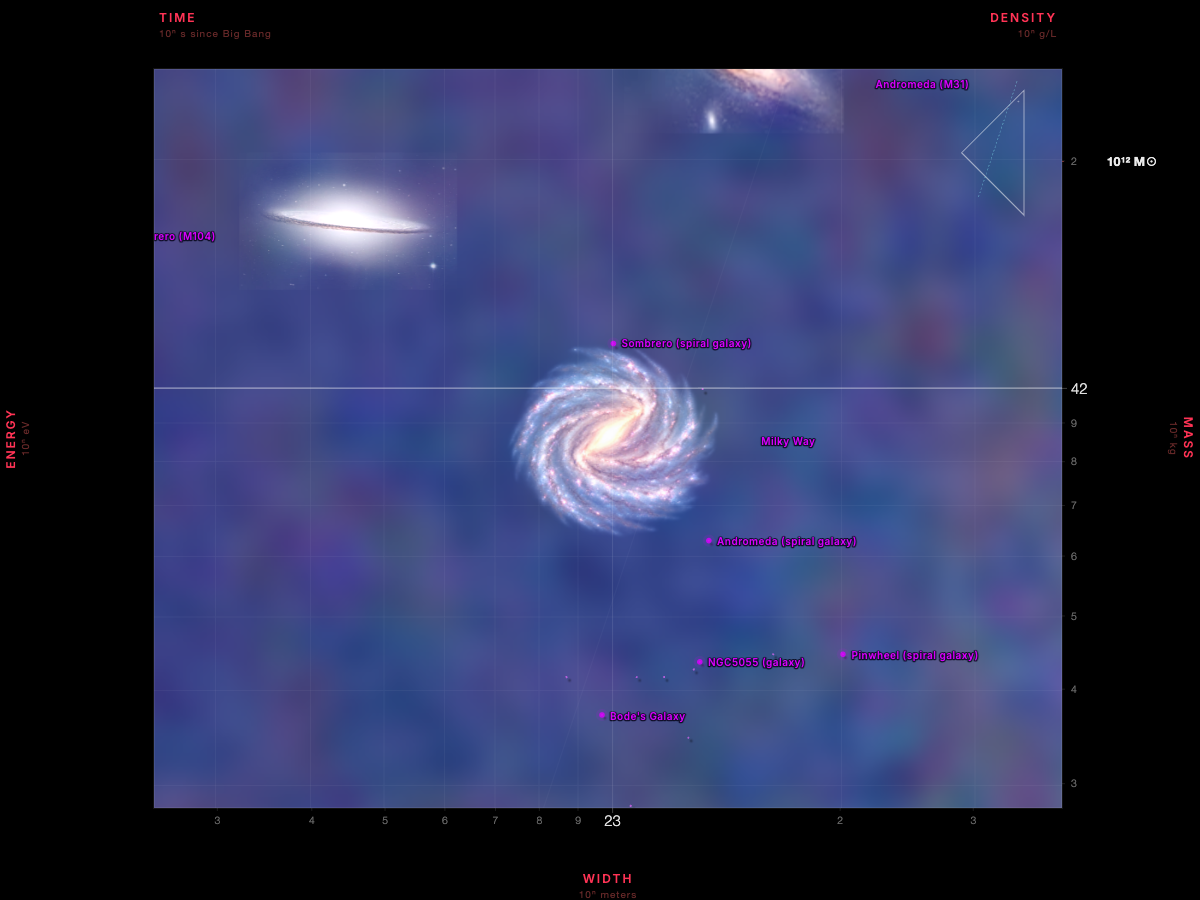
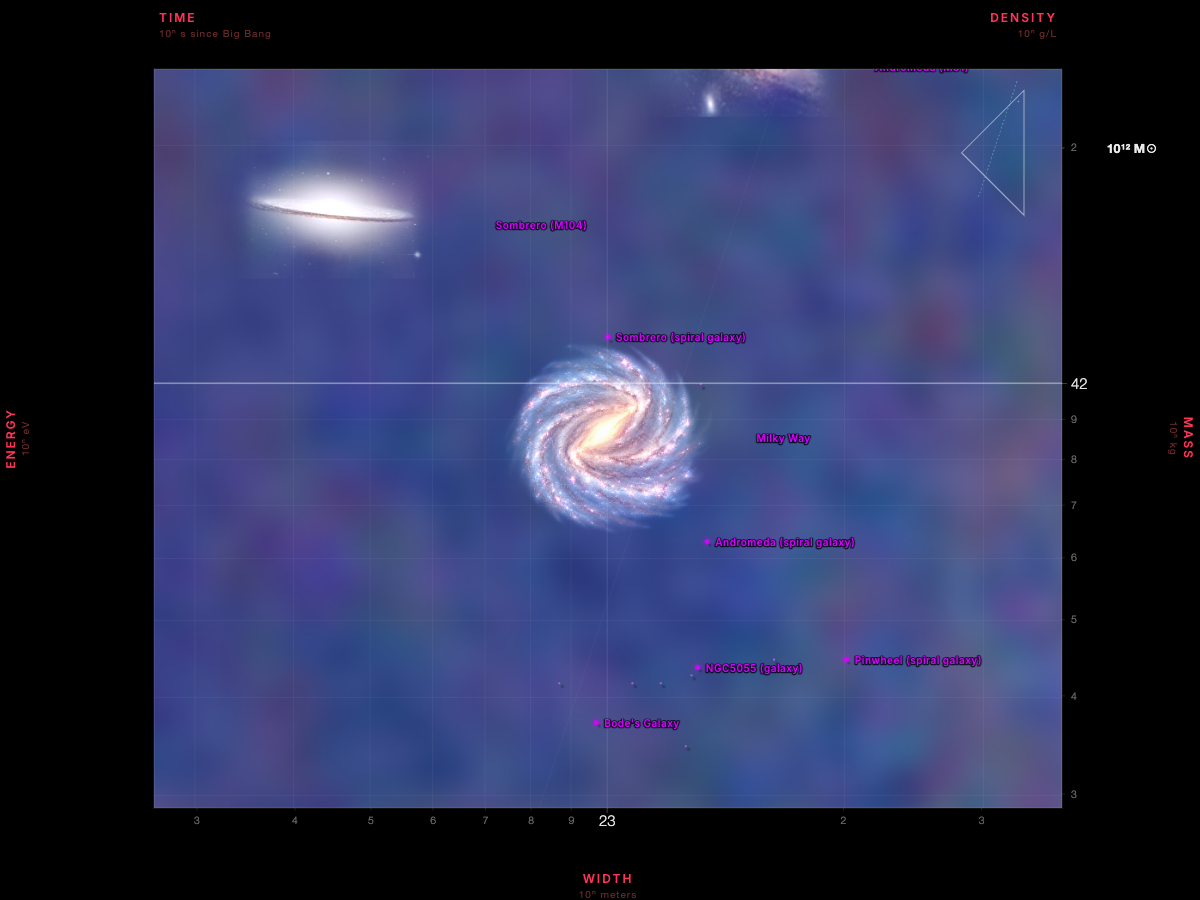
Soften diffuse space artwork edges and retain faint core backings

diff --git a/tools/space-blend-study.html b/tools/space-blend-study.html
@@ -1,16 +1,18 @@
 <!doctype html>
 <html lang="en"><meta charset="utf-8"><meta name="viewport" content="width=device-width,initial-scale=1"><title>Galaxies and comets · blending study</title>
 <style>
-*{box-sizing:border-box}body{margin:0;padding:24px;max-width:1200px;margin:auto;background:#171322;color:#eee8fa;font:16px system-ui}h1{font-size:25px;margin:0}p{line-height:1.5;color:#c0b4d0}a{color:#c7ed94}.controls{display:flex;gap:24px;align-items:center;flex-wrap:wrap;margin:24px 0}input{accent-color:#c7ed94}main{display:grid;grid-template-columns:1fr 1fr;gap:18px}article{border:1px solid #493a5b;border-radius:12px;overflow:hidden}.scene{height:300px;position:relative;isolation:isolate;background:linear-gradient(90deg,#ffffff0b 1px,transparent 1px),linear-gradient(#ffffff0b 1px,transparent 1px),#433193;background-size:40px 40px}img,.backing{position:absolute;left:50%;top:50%;width:240px;height:240px;transform:translate(-50%,-50%);object-fit:contain}.backing{width:250px;height:250px;border-radius:50%;background:radial-gradient(closest-side, rgba(0,0,0,.8) 0%,rgba(0,0,0,.5) 50%,transparent 100%)}img{mix-blend-mode:screen}footer{padding:15px;background:#211b2e}h2{font-size:16px;margin:0}small{color:#c0b4d0}@media(max-width:650px){body{padding:12px}.scene{height:220px}img,.backing{width:180px;height:180px}}
+*{box-sizing:border-box}body{margin:0;padding:24px;max-width:1200px;margin:auto;background:#171322;color:#eee8fa;font:16px system-ui}h1{font-size:25px;margin:0}p{line-height:1.5;color:#c0b4d0}a{color:#c7ed94}.controls{display:flex;gap:24px;align-items:center;flex-wrap:wrap;margin:24px 0}input{accent-color:#c7ed94}main{display:grid;grid-template-columns:1fr 1fr;gap:18px}article{border:1px solid #493a5b;border-radius:12px;overflow:hidden}.scene{--art-size:240px;height:300px;position:relative;isolation:isolate;background:linear-gradient(90deg,#ffffff0b 1px,transparent 1px),linear-gradient(#ffffff0b 1px,transparent 1px),#433193;background-size:40px 40px}img,.backing{position:absolute;left:50%;top:50%;width:var(--art-size);height:var(--art-size);transform:translate(-50%,-50%);object-fit:contain}.backing{border-radius:50%;background:radial-gradient(closest-side,rgba(0,0,0,.8),rgba(0,0,0,.5) 50%,transparent)}.backing.soft{background:radial-gradient(closest-side,rgba(0,0,0,.35),rgba(0,0,0,.15) 50%,transparent)}img{mix-blend-mode:screen}.trial{mask-composite:intersect;-webkit-mask-composite:source-in}footer{padding:15px;background:#211b2e}h2{font-size:16px;margin:0}small{color:#c0b4d0}@media(max-width:650px){body{padding:12px}.scene{--art-size:240px;height:220px}.scene{--art-size:180px}}
 </style>
-<h1>Light without the black backing</h1>
-<p>Left: the current black backing. Right: screen blending directly onto the purple wall, with a small brightness boost. The background grid remains visible through the faint parts.</p>
+<h1>A darker core, softer edges</h1>
+<p>Left: the original broad backing. Right: a small, faint backing under the core, brighter detail, and feathered image edges.</p>
 <div class="controls"><label>Brightness <input id="brightness" type="range" min="1" max="1.6" step=".05" value="1.25"> <output>1.25×</output></label><a href="/?softspace#21.5,39.7,31.59">Try it in the chart ↗</a><a href="/#21.5,39.7,31.59">Current chart ↗</a></div>
 <main></main>
 <script type="module">
-import {SPACE_ART_BRIGHTNESS} from '/src/space-art.js';
+import {SPACE_ART_BRIGHTNESS,spaceCoreGeometry,spaceEdgeCss} from '/src/space-art.js';
 for(const [slug,name] of [['milky-way','Milky Way'],['andromeda-m31','Andromeda'],['halleys-comet','Halley’s Comet'],['stellar-nursery','Stellar nursery']])for(const trial of [false,true]){
- const el=document.createElement('article');el.innerHTML=`<div class="scene">${trial?'':'<div class="backing"></div>'}<img ${trial?'class="trial"':''} src="/content/icons/${slug}.webp" alt="${name}"></div><footer><h2>${name}</h2><small>${trial?'No backing · brighter':'Current backing'}</small></footer>`;document.querySelector('main').append(el);
+ const core=trial?spaceCoreGeometry(slug,0,0,240):{cx:0,cy:0,r:240*.52};
+ const el=document.createElement('article');el.innerHTML=`<div class="scene"><div class="backing ${trial?'soft':''}" style="width:calc(var(--art-size) * ${core.r*2/240});height:calc(var(--art-size) * ${core.r*2/240});left:calc(50% + var(--art-size) * ${core.cx/240})"></div><img ${trial?'class="trial"':''} src="/content/icons/${slug}.webp" alt="${name}"></div><footer><h2>${name}</h2><small>${trial?'Faint core · feathered edges':'Original backing'}</small></footer>`;document.querySelector('main').append(el);
+ if(trial)el.querySelector('img').style.maskImage=spaceEdgeCss(slug);
 }
 const input=document.querySelector('input');input.value=SPACE_ART_BRIGHTNESS;
 function update(){document.querySelector('output').value=Number(input.value).toFixed(2)+'×';document.querySelectorAll('.trial').forEach(im=>im.style.filter=`brightness(${input.value})`)}

diff --git a/src/main.js b/src/main.js
@@ -1,5 +1,5 @@
 import * as d3 from "d3";
-import {isDiffuseSpaceArt,SPACE_ART_BRIGHTNESS} from "./space-art.js";
+import {isDiffuseSpaceArt,SPACE_ART_BRIGHTNESS,SPACE_ART_DEFS,spaceCoreGeometry,spaceEdgeMask} from "./space-art.js";
 import {animateIconGrowth, ICON_HOVER_MS, iconHoverEase} from "./icon-hover.js";
 import {STAR_BODY_FRAMES, BROWN_DWARFS, starBodyGeometry, starWallLight, stellarLightProfile} from "./star-light.js";
 import { PARALLAX, planePoint, planeTransform, iconPoint } from "./parallax.js";
@@ -462,6 +462,7 @@ function announce(text) {
 // decorative motion. The in-app "Show animations" checkbox still overrides.
 const _reduceMotion = !!window.matchMedia?.("(prefers-reduced-motion: reduce)").matches;
 const defs = svg.append("defs");
+defs.node().insertAdjacentHTML("beforeend",SPACE_ART_DEFS);
 
 // Clip
 defs.append("clipPath").attr("id", "clip")
@@ -2896,7 +2897,7 @@ function drawObjects() {
       const g = enter.append("g").attr("class", "icon-g");
       g.each(function(o) {
         const gg = d3.select(this);
-        if (iconUsesScreenBlend(o) && !softSpaceIcon(o)) {
+        if (iconUsesScreenBlend(o)) {
           gg.append("circle").attr("class", "icon-bg").attr("fill", "url(#icon-bg-grad)");
         }
         // Fallback dot: icons fetch on demand, so on a cold cache the
@@ -2911,6 +2912,7 @@ function drawObjects() {
           .attr("data-slug", o.slug)
           .style("mix-blend-mode", iconUsesScreenBlend(o) ? "screen" : null)
           .style("filter",softSpaceIcon(o)?`brightness(${SPACE_ART_BRIGHTNESS})`:null)
+          .attr("mask",softSpaceIcon(o)?spaceEdgeMask(o.slug):null)
           .node();
         imgEl.addEventListener("load", () => {
           _loadedIconUrls.add(ICON_BY_SLUG[o.slug]);
@@ -2926,11 +2928,11 @@ function drawObjects() {
       const objIcoSize = icoSize * iconSizeMult(o);
       const growth = this.__iconGrowth ?? 1;
       gg.attr("transform", parallaxTranslation(o, objectPicturePoint(o, growth)));
-      const bodyDisc=starBodyGeometry(o.slug,o.sx,o.sy,objIcoSize,growth);
+      const bodyDisc=iconBackingGeometry(o,objIcoSize,growth);
       gg.select(".icon-bg")
         .attr("cx",bodyDisc?.cx??o.sx).attr("cy",bodyDisc?.cy??o.sy)
         .attr("r",bodyDisc?.r??objIcoSize*.52).attr("opacity",bbOp)
-        .attr("fill",bodyDisc?"#000":"url(#icon-bg-grad)")
+        .attr("fill",softSpaceIcon(o)?"url(#space-core-gradient)":bodyDisc?"#000":"url(#icon-bg-grad)")
         .attr("display",bodyDisc&&!_loadedIconUrls.has(ICON_BY_SLUG[o.slug])?"none":null);
       gg.select(".icon-fallback-dot")
         .attr("cx", o.sx).attr("cy", o.sy)
@@ -2997,6 +2999,7 @@ function drawObjects() {
     // as iconSizeMult, per-object multipliers included
     iconSizeAt: (logR, name) => icoSize * Math.pow(1.1, (logR + 3.5) / 6) * (ICON_SIZE_MULT[nameToSlug(name)] || 1) * (_iconSize / 100),
     iconBlend: (cat) => SCREEN_BLEND_CATS.has(cat),
+    softSpaceOf:(cat,name)=>_softSpace&&isDiffuseSpaceArt(cat,nameToSlug(name)),
     iconBrightnessOf:(cat,name)=>_softSpace&&isDiffuseSpaceArt(cat,nameToSlug(name))?SPACE_ART_BRIGHTNESS:1,
   }, {
     dots: shownDots,
@@ -3169,6 +3172,9 @@ function liftShadow(key, k) {
 // Screen-blend decision is static per object — shared by enter and update.
 const SCREEN_BLEND_CATS = new Set(["remnant", "galaxy", "largescale", "star", "particle", "composite", "blackhole", "atomic"]);
 const SCREEN_BLEND_SLUGS = new Set(["halleys-comet", "hale-bopp"]);
+function iconBackingGeometry(o,size,growth) {
+  return starBodyGeometry(o.slug,o.sx,o.sy,size,growth)||(softSpaceIcon(o)?spaceCoreGeometry(o.slug,o.sx,o.sy,size,growth):null);
+}
 function softSpaceIcon(o) {return _softSpace&&isDiffuseSpaceArt(o.catKey||o.cat,o.slug)}
 function iconUsesScreenBlend(o) {
   if (o.slug.includes("void")) return false;
@@ -3192,7 +3198,7 @@ function setIconHover(o, on) {
   animateIconGrowth(group,k,(node,growth)=>{
     const current=node.__data__,g=d3.select(node),size=effectiveIconSize()*iconSizeMult(current);
     g.select('.obj-icon').style('transform',growth===1?null:`scale(${growth})`);
-    const disc=starBodyGeometry(current.slug,current.sx,current.sy,size,growth);
+    const disc=iconBackingGeometry(current,size,growth);
     if(disc)g.select('.icon-bg').attr('cx',disc.cx).attr('cy',disc.cy).attr('r',disc.r);
     g.attr('transform',parallaxTranslation(current,objectPicturePoint(current,growth)));
   },_reduceMotion);

diff --git a/src/dust.js b/src/dust.js
@@ -22,6 +22,7 @@
 // =============================================================
 
 import dustUrl from "./dust.json?url";
+import {spaceCoreGeometry,spaceEdgeMask} from "./space-art.js";
 import {animateIconGrowth} from "./icon-hover.js";
 import {starBodyGeometry} from "./star-light.js";
 import { PARALLAX, planePoint, unprojectPlane, planeTransform, iconPoint } from "./parallax.js";
@@ -456,14 +457,16 @@ function drawDustLabels(layer, view, occ, gw, gh, OC, colorOf) {
       const g = d3sel(this), point = picturePoint(p);
       g.attr("transform", "translate(" + (point.x-p.sx) + "," + (point.y-p.sy) + ")");
       const source = placed.find(q => q.i === p.i).icon;
-      const disc=starBodyGeometry(view.depthKeyOf?.(p.name),p.sx,p.sy,p.r*2,_iconGrowth.get(p.i)||1);
-      g.select(".dn-body").attr("display",disc?null:"none")
+      const soft=view.softSpaceOf?.(p.cat,p.name);
+      const disc=starBodyGeometry(view.depthKeyOf?.(p.name),p.sx,p.sy,p.r*2,_iconGrowth.get(p.i)||1)||(soft?spaceCoreGeometry(view.depthKeyOf?.(p.name),p.sx,p.sy,p.r*2,_iconGrowth.get(p.i)||1):null);
+      g.select(".dn-body").attr("display",disc?null:"none").attr("fill",soft?"url(#space-core-gradient)":"#000")
         .attr("visibility",_loadedPictures.has(source.url)?null:"hidden")
         .attr("cx",disc?.cx??p.sx).attr("cy",disc?.cy??p.sy).attr("r",disc?.r??0);
       g.select("image").style("transform",(_iconGrowth.get(p.i)||1)===1?null:`scale(${_iconGrowth.get(p.i)})`).attr("href", source.url)
         .attr("x", p.sx-p.r).attr("y", p.sy-p.r).attr("width", p.r*2).attr("height", p.r*2)
         .style("mix-blend-mode", p.blend ? "screen" : null)
-        .style("filter",`brightness(${view.iconBrightnessOf?.(p.cat,p.name)??1})`);
+        .style("filter",`brightness(${view.iconBrightnessOf?.(p.cat,p.name)??1})`)
+        .attr("mask",soft?spaceEdgeMask(view.depthKeyOf?.(p.name)):null);
     });
 }
 
@@ -487,7 +490,7 @@ export function setDustIconScale(layer, i, k) {
     const p=node.__data__,g=d3sel(node);
     if(growth>1)_iconGrowth.set(i,growth);else _iconGrowth.delete(i);
     const point=picturePoint(p,growth);
-    const disc=starBodyGeometry(_view.depthKeyOf?.(p.name),p.sx,p.sy,p.r*2,growth);
+    const disc=starBodyGeometry(_view.depthKeyOf?.(p.name),p.sx,p.sy,p.r*2,growth)||(_view.softSpaceOf?.(p.cat,p.name)?spaceCoreGeometry(_view.depthKeyOf?.(p.name),p.sx,p.sy,p.r*2,growth):null);
     if(disc)g.select('.dn-body').attr('cx',disc.cx).attr('cy',disc.cy).attr('r',disc.r);
     g.attr('transform',`translate(${point.x-p.sx},${point.y-p.sy})`);
     g.select('.dn-icon').style('transform',growth===1?null:`scale(${growth})`);

diff --git a/src/space-art.js b/src/space-art.js
@@ -1,5 +1,27 @@
+import frames from './space-art-frames.json' with {type:'json'};
 // Comparison treatment for diffuse light, not solid stellar/planetary bodies.
 export const SPACE_ART_BRIGHTNESS = 1.25;
+// Feather only the outer 14% on each axis: a circular crop would cut long tails.
+const stops = '<stop offset="0" stop-color="white" stop-opacity="0"/><stop offset=".06" stop-color="white" stop-opacity=".3"/><stop offset=".14" stop-color="white"/><stop offset=".86" stop-color="white"/><stop offset=".94" stop-color="white" stop-opacity=".3"/><stop offset="1" stop-color="white" stop-opacity="0"/>';
+export const SPACE_ART_DEFS = `
+<radialGradient id="space-core-gradient"><stop offset="0" stop-color="black" stop-opacity=".35"/><stop offset=".5" stop-color="black" stop-opacity=".15"/><stop offset="1" stop-color="black" stop-opacity="0"/></radialGradient>
+<linearGradient id="space-edge-x" x1="0%" x2="100%">${stops}</linearGradient>
+<linearGradient id="space-edge-y" x1="0%" x2="0%" y1="0%" y2="100%">${stops}</linearGradient>
+<mask id="space-edge-x-mask" maskUnits="objectBoundingBox" maskContentUnits="objectBoundingBox" x="0" y="0" width="1" height="1"><rect width="1" height="1" fill="url(#space-edge-x)"/></mask>
+<mask id="space-edge-mask" maskUnits="objectBoundingBox" maskContentUnits="objectBoundingBox" x="0" y="0" width="1" height="1"><rect width="1" height="1" fill="url(#space-edge-y)" mask="url(#space-edge-x-mask)"/></mask>`+
+Object.entries(frames).map(([slug,f])=>`<mask id="space-edge-${slug}" maskUnits="objectBoundingBox" maskContentUnits="objectBoundingBox" x="0" y="0" width="1" height="1"><rect x="${f.x}" y="${f.y}" width="${f.w}" height="${f.h}" fill="url(#space-edge-y)" mask="url(#space-edge-x-mask)"/></mask>`).join('');
+
+export function spaceEdgeMask(slug) {return `url(#${frames[slug]?'space-edge-'+slug:'space-edge-mask'})`}
+export function spaceEdgeCss(slug) {
+  const f=frames[slug]||{x:0,y:0,w:1,h:1};
+  const gradient=(direction,start,length)=>`linear-gradient(${direction},transparent 0%,${[[0,0],[.06,.3],[.14,1],[.86,1],[.94,.3],[1,0]].map(([t,a])=>`rgba(0,0,0,${a}) ${(start+t*length)*100}%`).join(',')},transparent 100%)`;
+  return gradient('to right',f.x,f.w)+','+gradient('to bottom',f.y,f.h);
+}
+
+export function spaceCoreGeometry(slug,x,y,size,growth=1) {
+  const comet=slug==='halleys-comet';
+  return {cx:x+(comet?-.26:0)*size*growth,cy:y,r:size*growth*(comet?.20:.28)};
+}
 export function isDiffuseSpaceArt(cat,slug='') {
   if(slug.includes('void')||slug==='heat-death')return false;
   return cat==='galaxy'||cat==='largescale'||[

diff --git a/tools/SHADOW-STUDIO.md b/tools/SHADOW-STUDIO.md
@@ -1006,3 +1006,19 @@ source images or alpha. The wall shows through faint details, giving a more
 luminous impression; photographic background noise and rectangular crop edges
 can also become more apparent, especially in Andromeda and Halley's Comet.
 The default chart remains unchanged pending comparison.
+
+### Smaller cores and feathered edges
+
+The diffuse-space comparison now retains a faint core backing: 56% of image
+width (previous broad backing 104%), with central opacity .35 fading through
+.15 to zero. Halley's backing follows its head at 24% of image width and uses
+a smaller 40% diameter. Both grow with the icon on the same hover clock.
+
+The outer 14% of each source rectangle is feathered on both axes. Masks use
+the measured alpha bounds in `src/space-art-frames.json` (alpha >16/255 on
+root chart WebPs), so transparent letterboxing does not hide a hard photo
+edge from the mask. Update these bounds when changing diffuse source artwork.
+`src/space-art.js` supplies matching SVG chart masks and CSS study masks.
+Brightness remains 1.25×. The comparison page and `?softspace` chart mode use
+the refined treatment; ordinary chart mode remains available for comparison.
+The source artwork is unchanged.
